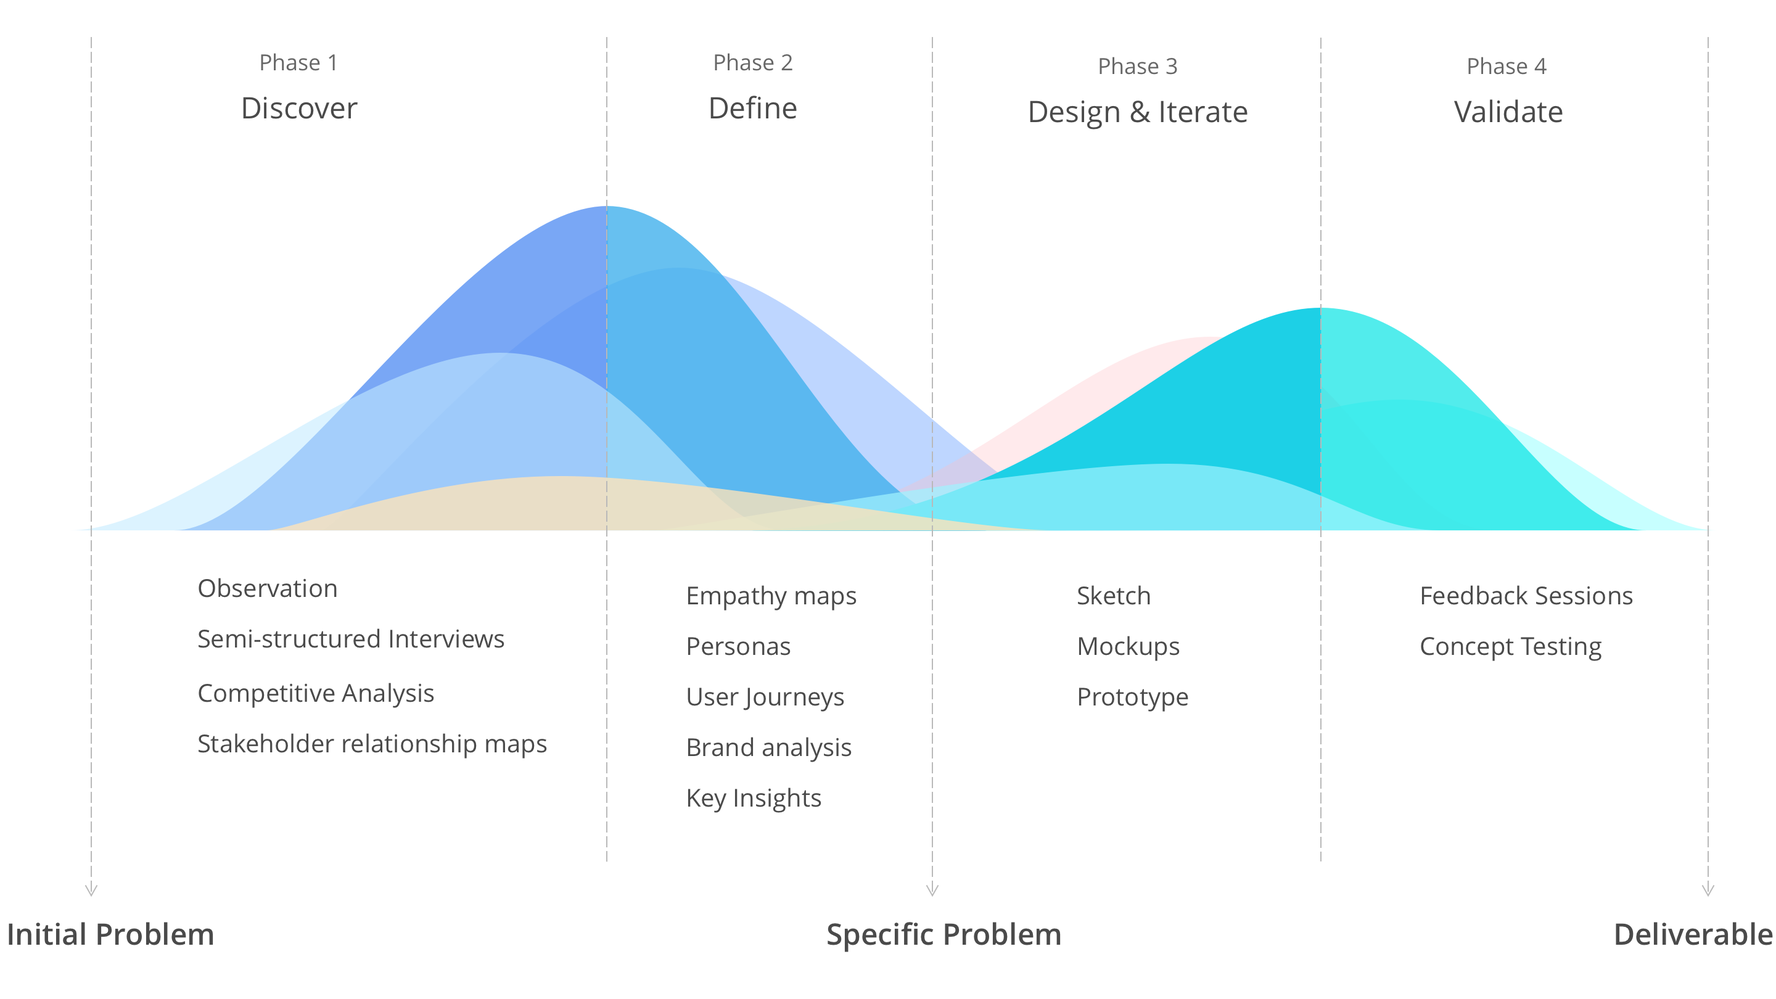
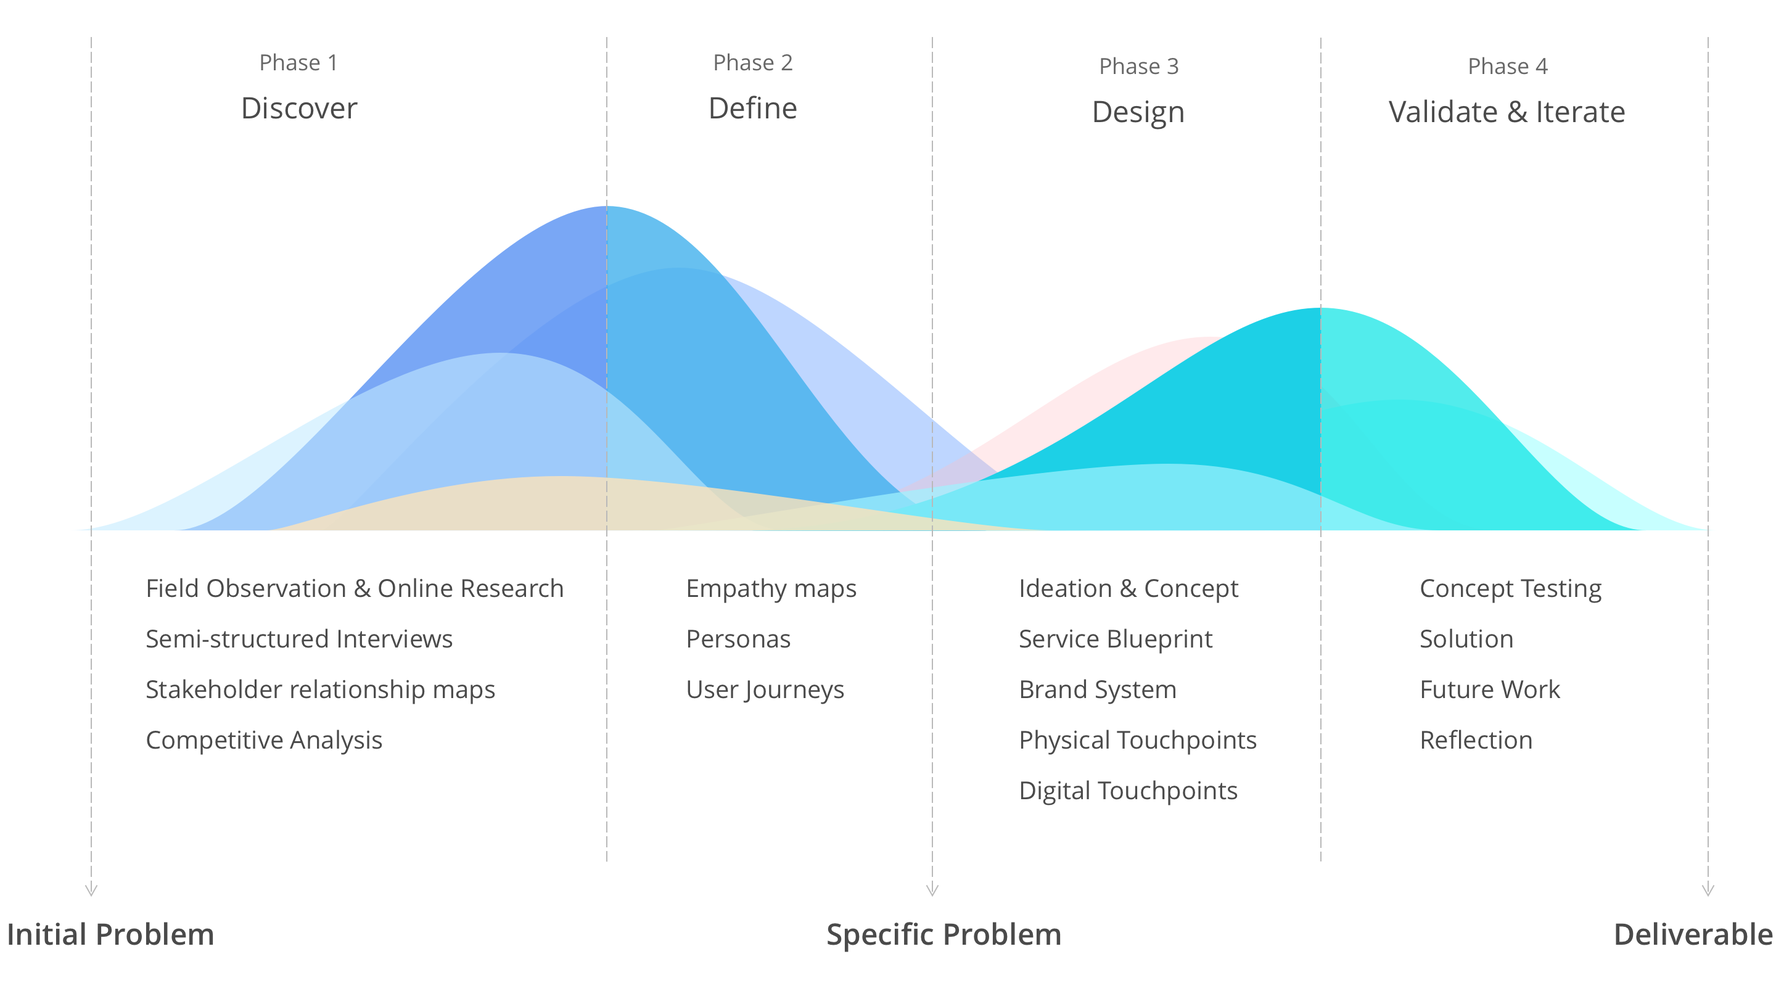
fix nav

diff --git a/project4.html b/project4.html
@@ -50,15 +50,17 @@
             <li class="font_padding"><a href="#Define">Define</a></li>
               <li><a href="#Findings" class="sub">Synthesis of Findings</a></li>
               <li><a href="#Detail_findings" class="sub">Details of Findings</a></li>
-            <li class="font_padding"><a href="#Design">Design & Iterate</a></li>
-              <li><a href="#Information_Architecture" class="sub">Information Architecture</a></li>
-              <li><a href="#Wireframes" class="sub">Lofi Wireframes</a></li>
-              <li><a href="#Prototype" class="sub">Hifi Prototype & Iterations</a></li>
-              <li><a href="#Final_Design" class="sub">Final Design</a></li>
-              <li><a href="#Use_Case" class="sub">Use Case</a></li>
-            <li class="font_padding"><a href="#Validate">Validate</a></li>
-              <li><a href="#Information_Architecture" class="sub">Feedback Session</a></li>
-              <li><a href="#Information_Architecture" class="sub">Concept Testing</a></li>
+            <li class="font_padding"><a href="#Design">Design</a></li>
+              <li><a href="#Ideation" class="sub">Ideation</a></li>
+              <li><a href="#Concept" class="sub">Concept</a></li>
+              <li><a href="#Service_Blueprint" class="sub">Service Blueprint</a></li>
+              <li><a href="#Brand_System" class="sub">Brand System</a></li>
+              <li><a href="#Physical_Touchpoints" class="sub">Physical Touchpoints</a></li>
+              <li><a href="#Digital_Touchpoints" class="sub">Digital Touchpoints</a></li>
+            <li class="font_padding"><a href="#Validate">Validate & Iterate</a></li>
+              <li><a href="#Concept_Testing" class="sub">Concept Testing</a></li>
+              <li><a href="#Solution" class="sub">Solution</a></li>
+              <li><a href="#Reflection" class="sub">Reflection</a></li>
           </ul>
         </nav>
         
@@ -101,7 +103,7 @@
                           </div>
                           <div class="col-lg-6 col-md-6 col-sm-12 col-xs-12">      
                               <h3 class="overview_subtitle">Duration</h3>
-                              <p class="project-desc">September 2018 - December 2018</p>
+                              <p class="project-desc">September 2018 - November 2018</p>
 
                               <h3 class="overview_subtitle">Project Team</h3>
                               <p class="project-desc">Huaiwei Sun | Michelle Ma</p>
@@ -136,19 +138,20 @@
                           </p>
                           <!--  hidden research contents start here -->
                           <div class="collapse" id="detail-research">
-                            <h3 class="detail_subtitle" id="Feedback">Observation</h3>
+                            <h3 class="detail_subtitle" id="">Field Observation & Online Research</h3>
                             <p class = "project-desc">During the observation on both westside and eastside trails, we mainly found x pain points.</p>
                             <p class = "project-desc">
                               <span style="background-color: rgb(255,230,240); padding-right: 0.5em">1.</span> The art information is hard to get on the trail. Signage is missing or hard to find.<br>
                               <span style="background-color: rgb(255,230,240); padding-right: 0.5em">2.</span> The physical touch points (brochure, booklet, flyers, signage, etc) can hardly add to the interaction between the art work and visitors. <br>
                             </p>
                             <img src="img/project4/observation.png">
+                            <img src="img/project4/online_research.png">
                             <div class="divide_20"></div>
 
                             <hr>
 
                             <div class="divide_40"></div>
-                            <h3 class="detail_subtitle" id="Analytics">Semi-structured Interviews</h3>
+                            <h3 class="detail_subtitle" id="">Semi-structured Interviews</h3>
                             <p class = "project-desc">We talked to our client first, Chris Langley - Arts and Culture Program coordinator. Then we went to the eastside trail and recruited 10 other stakeholders. During the interviews, we collected the pain points and people's needs related to the experience of arts.</p>
                             <img src="img/project4/semi-structured interview_1.png">
                             <div class="divide_20"></div>
@@ -157,7 +160,7 @@
                             <hr>
 
                             <div class="divide_40"></div>
-                            <h3 class="detail_subtitle" id="Interviews">Stakeholder Relationship Map</h3>
+                            <h3 class="detail_subtitle" id="">Stakeholder Relationship Map</h3>
                             <p class = "project-desc">Based on the interviews and online research, we grouped and mapped all the stakeholders onto this relationship map. The insights we got included:</p>
                             <p class = "project-desc">
                               <span style="background-color: #EEF9FF; padding-right: 0.5em">1.</span> Since Atlanta Beltline is a non-profit project, it's important to consider different stakeholders' incentives which might be totally different.<br>
@@ -170,7 +173,7 @@
                             <hr>
 
                             <div class="divide_40"></div>
-                            <h3 class="detail_subtitle" id="Competitive">Competitive Analysis</h3>
+                            <h3 class="detail_subtitle" id="">Competitive Analysis</h3>
                             <p class = "project-desc">We studied 3 trails or public art exhibition programs around US and compared them with Atlanta Beltline using different indicators. The things Beltline should learn from them include:</p>
                             <p class = "project-desc">
                               <span style="background-color: #EEF9FF; padding-right: 0.5em">1.</span> Enhance the interactivity and accessibility of the arts. Stick to two of the Atlanta Beltline's principles: equitable and inclusive.<br>
@@ -205,7 +208,7 @@
                           </p>
                           <!--  hidden research contents start here -->
                           <div class="collapse" id="detail-findings">
-                            <h3 class="detail_subtitle" id="Feedback">Empathy Maps & Personas</h3>
+                            <h3 class="detail_subtitle" id="">Empathy Maps & Personas</h3>
                             <p class = "project-desc">During the observation on both westside and eastside trails, we mainly found x pain points.</p>
                             <img src="img/project4/Persona_1.png">
                             <div class="divide_20"></div>
@@ -219,7 +222,7 @@
                             <hr>
 
                             <div class="divide_40"></div>
-                            <h3 class="detail_subtitle" id="Analytics">Current User Journeys</h3>
+                            <h3 class="detail_subtitle" id="">Current User Journeys</h3>
                             <p class = "project-desc">We talked to our client first, Chris Langley - Arts and Culture Program coordinator. Then we went to the eastside trail and recruited 10 other stakeholders. During the interviews, we collected the pain points and people's needs related to the experience of arts.</p>
                             <img src="img/project4/user_journey_1.png">
                             <div class="divide_20"></div>
@@ -233,16 +236,16 @@
 
                   <div id="Design">
                       <div class="divide_80"></div>
-                      <h2 class="page-header"><span style="color:#00AEEF">04. </span>Design & Iterate</h2>
+                      <h2 class="page-header"><span style="color:#00AEEF">04. </span>Design</h2>
                       <hr>
                       <div class="row">
                         <div class="col-lg-12 col-md-12 col-sm-12 col-xs-12">
-                          <h3 class="overview_subtitle" id="Information_Architecture">Ideation</h3>
+                          <h3 class="overview_subtitle" id="Ideation">Ideation</h3>
                           <p class = "project-desc">- Firstly, we listed all the essential functions and features for meeting the product requirements.<br></p>
                           <img src="img/project4/ideation.png">
                           <div class="divide_80"></div>
                           <div class = "bg_grey">
-                            <h3 class="overview_subtitle" id="Problem">Concept</h3>                         
+                            <h3 class="overview_subtitle" id="Concept">Concept</h3>                         
                             <p class="project-desc"><span style="font-weight: 600">
                               A redesigned Art on the Atlanta Beltline website automating the information (arts, adjacent busuiness, history, events, parks, etc.) management process and extracting and bringing all the value of the information to the visitors.</span></p>
                               <img src="img/project4/concept.png">
@@ -256,7 +259,7 @@
                           <hr>
 
                           <div class="divide_40"></div>
-                          <h3 class="overview_subtitle" id="Wireframes">Service Blueprint</h3>
+                          <h3 class="overview_subtitle" id="Service_Blueprint">Prototype - Service Blueprint</h3>
                           <p class = "project-desc">Based on the information architecture, we came up with the wireframes and flows. However, we tweaked some functions and revised the information architecture in order to better satisfy the product requirement document.</p>
                           <a data-fancybox="gallery" href="img/project4/service_blueprint.png"><img src="img/project4/service_blueprint.png"></a>
                           <div class="divide_20"></div>
@@ -264,11 +267,11 @@
                           <hr>
 
                           <div class="divide_40"></div>
-                          <h3 class="overview_subtitle" id="Prototype">Brand System</h3>
+                          <h3 class="overview_subtitle" id="Brand_System">Prototype - Brand System</h3>
                           <p class = "project-desc">After reaching consensus on wireframes and flows, we created hifi prototypes. We didn't use inVision or other softwares to make the prototype. We manually showed all the screens and interactions on my laptop during the team review.</p>
                           <div class="divide_20"></div>
                           <img src="img/project4/brand_system_1.png">
-                                                    <div class="divide_20"></div>
+                          <div class="divide_20"></div>
                           <p id="brand_creation" class="collapsible-button">
                             <button class="btn black-button collapse-btn" type="button" data-toggle="collapse" data-target="#detail-brand" aria-expanded="false" aria-controls="collapseExample">See the Process of Creating the Brand System</button>
                           </p>
@@ -282,44 +285,55 @@
                           <hr>
 
                           <div class="divide_40"></div>
-                          <h3 class="overview_subtitle" id="physical_touchpoints">Physical Touchpoints</h3>
+                          <h3 class="overview_subtitle" id="physical_Touchpoints">Prototype - Physical Touchpoints</h3>
                           <img src="img/project4/physical_touchpoints.png">
                           <div class="divide_20"></div>
 
                           <hr>
 
                           <div class="divide_40"></div>
-                          <h3 class="overview_subtitle" id="Digital_touchpoints">Digital Touchpoints</h3>
+                          <h3 class="overview_subtitle" id="Digital_Touchpoints">Prototype - Digital Touchpoints</h3>
                           <p class = "project-desc">Our design work was always revolved around the personas(users) and product requirement document. <span style="font-weight: 600">We tested our design and flow in our use cases to see if they could help users achieve their goals.</span></p>
-                          <p class = "project-desc"><a target = "_blank" href="project3_detail.html#Use_Case"><span style="color:#4A90E2">Check the details of use cases.</span></a></p>
-                          <img src="img/project3/use_case_1.png">
+                          <img src="img/project4/digital_touchpoints.png">
+                          <div class="divide_40"></div>
+                          <img src="img/project4/website.png">
+                          <div class="divide_40"></div>
+                          <p class="collapsible-button">
+                            <button class="btn black-button collapse-btn" type="button" data-toggle="collapse" data-target="#detail-website" aria-expanded="false" aria-controls="collapseExample">See the Process of Designing the Website</button>
+                          </p>
+                          <!--  hidden research contents start here -->
+                          <div class="collapse" id="detail-website">
+                            <img src="img/project4/design_detail.png">
+                          </div>
+                          <!-- hidden research contents end here --> 
                       </div>
                   </div>
 
                   <div id="Validate">
                       <div class="divide_80"></div>
-                      <h2 class="page-header"><span style="color:#00AEEF">05. </span>VALIDATE</h2>
+                      <h2 class="page-header"><span style="color:#00AEEF">05. </span>VALIDATE & ITERATE</h2>
                       <hr>
                       <div class="row">
                         <div class="col-lg-12 col-md-12 col-sm-12 col-xs-12">
-                          <h3 class="overview_subtitle" id="Development">Development</h3>
+                          <h3 class="overview_subtitle" id="Concept_Testing">Concept Testing</h3>
                           <p class = "project-desc">I exported all the assets and specs to the iOS developer Ruiyang Wang. After he finished 95% of the coding work, <span style="font-weight: 600">we spent several days together testing and debugging to ensure there were as few bugs as possible.</span>
                           </p>
-                          <div class="divide_20"></div>
-                        </div>
-                        <div class="col-lg-12 col-md-12 col-sm-12 col-xs-12">
-                          <video src="img/project3/debug.mp4" autoplay="true" loop="" style="width:100%; margin: 0;"></video>
-                        </div>
-<!--                         <div class="col-lg-5 col-md-5 col-sm-12 col-xs-12">
-                          <img src="img/project3/development.png">
-                        </div> -->
-                        <div class="col-lg-12 col-md-12 col-sm-12 col-xs-12">
+                          <img src="img/project4/validation.png">
+                          <!-- <div class="divide_20"></div>
+                          <p class="collapsible-button">
+                            <button class="btn black-button collapse-btn" type="button" data-toggle="collapse" data-target="#detail-validation" aria-expanded="false" aria-controls="collapseExample">See the Detailed Testing Results</button>
+                          </p>
+                          hidden research contents start here
+                          <div class="collapse" id="detail-validation">
+                            <img src="img/project4/brand_system_2.png">
+                          </div>
+                          hidden research contents end here -->
                           <div class="divide_20"></div>
 
                           <hr>
 
                           <div class="divide_40"></div>
-                          <h3 class="overview_subtitle" id="Launch">Launch and Publicity</h3>
+<!--                           <h3 class="overview_subtitle" id="Launch">Case Study</h3>
                           <p class = "project-desc">When we were confident enough about our work, we launched it to the iOS store. I also designed introduction page on Tong Qu's website to introduce our new app.
                             <a style = "color:#4A90E2" href="https://tongqu.me/index.php/app" target="_blank">Check the introduction page here!</a></p>
                           <p class = "project-desc">Several updates have been done after I graduated, so some design details are different from those in this project.</p>
@@ -328,8 +342,27 @@
 
                           <hr>
 
+                          <div class="divide_40"></div> -->
+                          <h3 class="overview_subtitle" id="Solution">Solution</h3>
+                          <div class = "bg_grey"><img src="img/project4/solution_front_stage.png"></div>
                           <div class="divide_40"></div>
-                          <h3 class="overview_subtitle" id="Impact">Project Impact</h3>
+                          <div class="videoWrapper">
+                             <iframe width="560" height="600" src="https://www.youtube.com/embed/3ZSqVP0rltM" frameborder="0" allow="accelerometer; autoplay; encrypted-media; gyroscope; picture-in-picture" allowfullscreen; rel="0"></iframe>
+                          </div>
+                          <div class="divide_80"></div>
+                          <div class = "bg_grey"><img src="img/project4/solution_back_stage_1.png"></div>
+                          <div class="divide_40"></div>
+                          <img src="img/project4/solution_back_stage_2.png">
+                          <div class="divide_40"></div>
+                          <img src="img/project4/solution_back_stage_3.png">
+                          <div class="divide_40"></div>
+                          <img src="img/project4/solution_back_stage_4.png">
+                          <div class="divide_20"></div>
+
+                          <hr>
+
+                          <div class="divide_40"></div>
+<!--                           <h3 class="overview_subtitle" id="Impact">Project Impact</h3>
                           <p class = "project-desc"><span style="font-weight: 600">1. Objective Data:</span> <br></p>
                           <p class = "project-desc">In order to evaluate the impact of this update, I compared the analytics data from Nov. 2016 and data from Nov. 2017.</p>
                            <p class = "project-desc"><span style="font-weight: 600">There is a huge improvement on usage data. Sessions(one session means that a user oepns the app and uses it for a certain amount of time once) have doubled. Active devices have went up to 1.4 times. Crashes have decreased by 93%.</span></p>
@@ -340,7 +373,19 @@
                           <p class = "project-desc"><span style="font-weight: 600">2. Subjective Data:</span> <br></p>
                           <p class = "project-desc">I compared the ratings and reviews for old version and this new version from iOS store.</p>
                           <p class = "project-desc"><span style="font-weight: 600">There is also a huge improvement on users' subjective feedback. Ratings from users have gone from 1.5 to 4.7. Most of the reviews spoke hightly of this update.</span></p>
-                          <img src="img/project3/qualitative_result.png">
+                          <img src="img/project3/qualitative_result.png"> -->
+                          <h3 class="overview_subtitle" id="Reflection">Reflection</h3>
+                          <p class = "project-desc">1.Consider different stakeholders' needs and their relationships</p>
+                          <p class = "project-desc">Different stakeholders might have conflicting interests and needs. As designers, we should learnto prioritze and strive to find a balanced solution to satsify the different stakeholders as much as possible.</p>
+                          <p class = "project-desc">2.Not only about digital touchpoints. Think about the entire journey and experience.</p>
+                          <p class = "project-desc">Your brand's and product's user experiences don't only matter when the customers start to use the websites or apps, but also matter before and after they use your products. It should cover all they know about, try, use, comment, recommend your products. The user journey and service blueprint are good tools for me to consider all the touchpoints and different experiences.</p>
+                          <p class = "project-desc">3.Build the MVP quickly and validate it to persuade the clients.</p>
+                          <p class = "project-desc">What client cares about is how valuable the design is to the customers rather than how smooth the flow is or how fancy the interaction is. Within the limited period of time, I should understand the key value of the concept and embody it in our MVP design. After testing the MVP with the real customers, it's much easier to persuade the clients to buy in with the real numbers and feedback.</p>
+                          <div class="divide_20"></div>
+
+                          <hr>
+
+                          <div class="divide_40"></div>
                           <div class="divide_80"></div>
                         </div>
                       </div>
@@ -350,7 +395,7 @@
                   
                   <div class="nav_bottom row">
                     <div class="col-6 text-left">
-                      <a href="project2.html" class="block">
+   <!--                    <a href="project2.html" class="block">
 
                         <span>
                           <h4>
@@ -359,18 +404,19 @@
                           </h4>
                         </span>
 
-                      </a>
+                      </a> -->
                     </div>
-<!--                     <div class="col-6 text-right right">
-                        <a href="project3.html" class="block">
+
+                     <div class="col-6 text-right right">
+                        <a href="project2.html" class="block">
                         <span>
                           <h4>
                             <small>Next</small>
-                            Tong Qu <span><img class="next_bottom" src="img/next_bottom.svg"></span>
+                            BestBuy Demo <span><img class="next_bottom" src="img/next_bottom.svg"></span>
                           </h4>
                         </span>
                       </a>
-                    </div> -->
+                    </div>
                   </div>
 
               </div>

diff --git a/css/styles.css b/css/styles.css
@@ -270,6 +270,19 @@ ul li {
 /* ------------------------------------------------------------------------------
 project page
 -------------------------------------------------------------------------------*/
+.videoWrapper{
+	position: relative;
+	padding-bottom: 56.25%; /* 16:9 */
+	padding-top: 25px;
+	height: 0;
+}
+.videoWrapper iframe {
+	position: absolute;
+	top: 0;
+	left: 0;
+	width: 100%;
+	height: 100%;
+}
 .bg_grey{
   background-color: #f6f6f6;
   padding:20px 80px;
